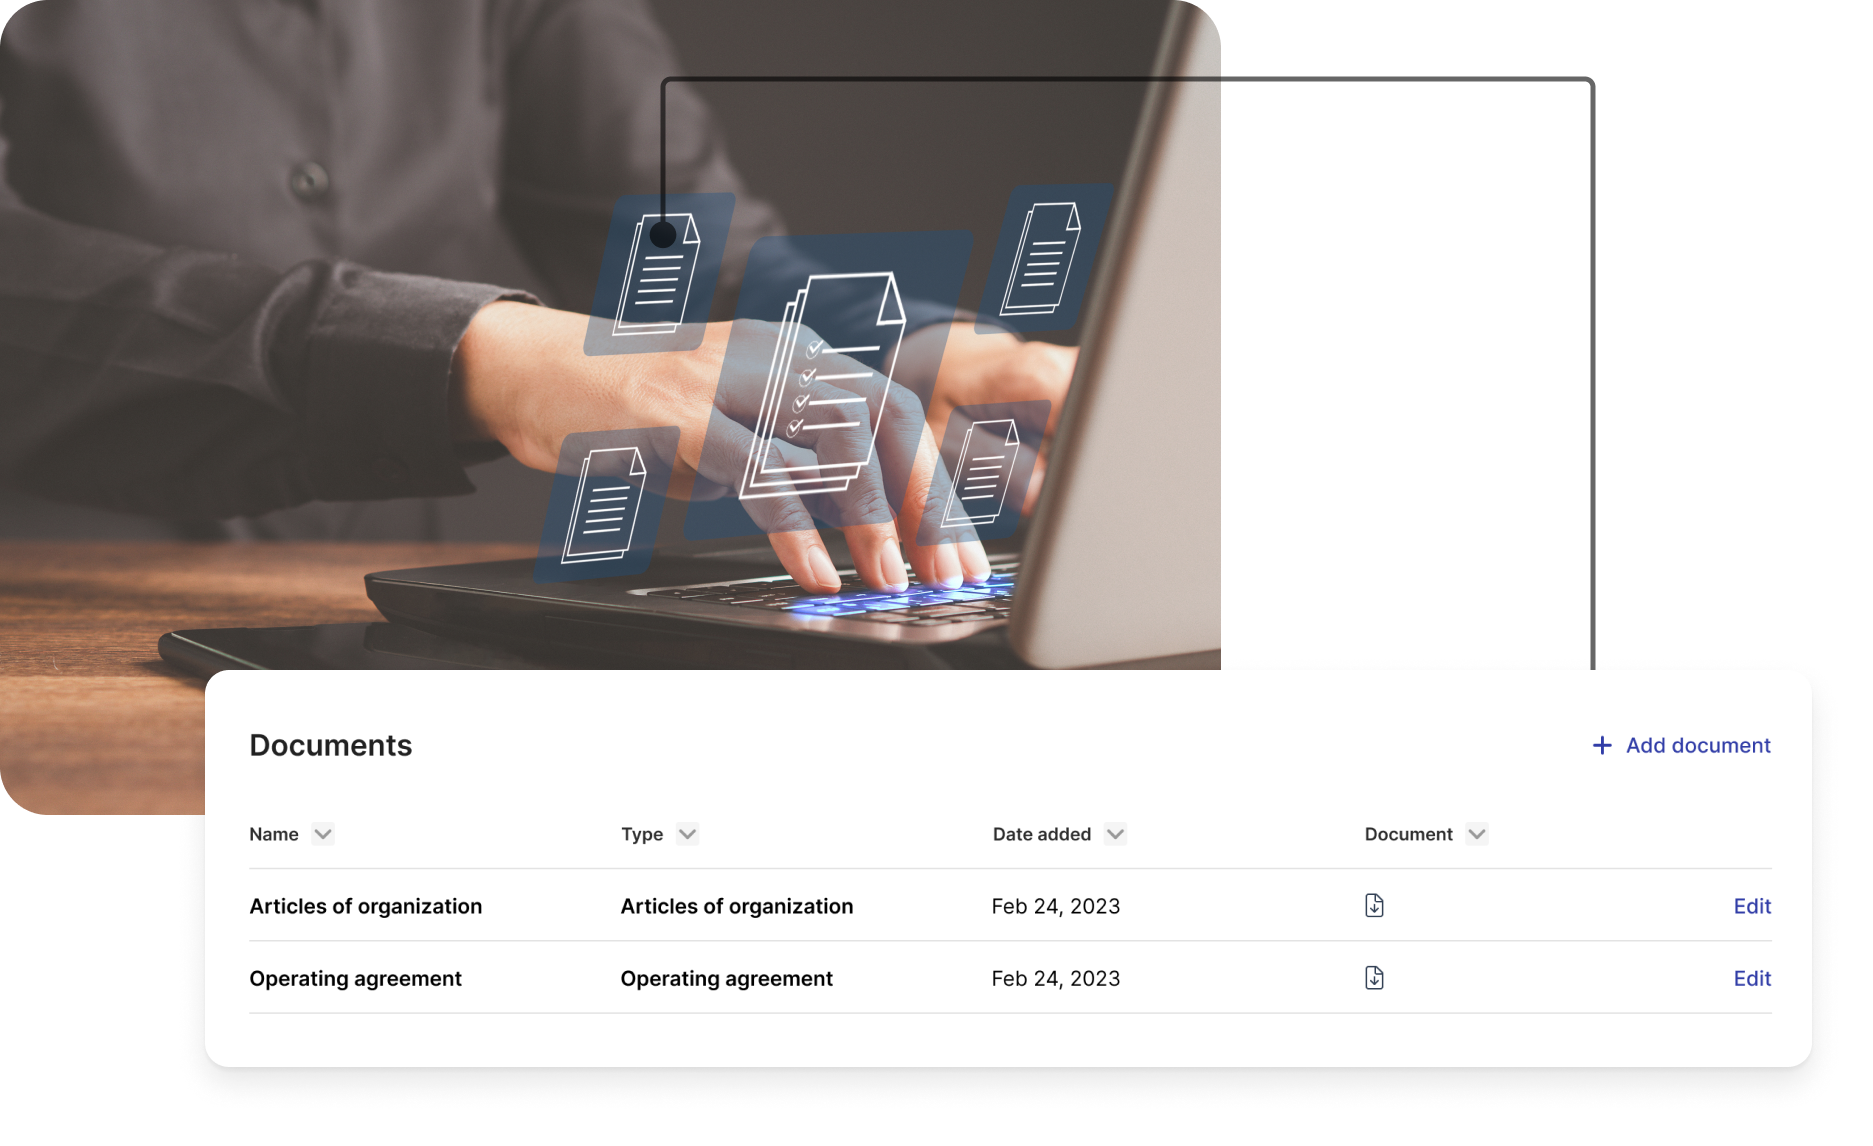
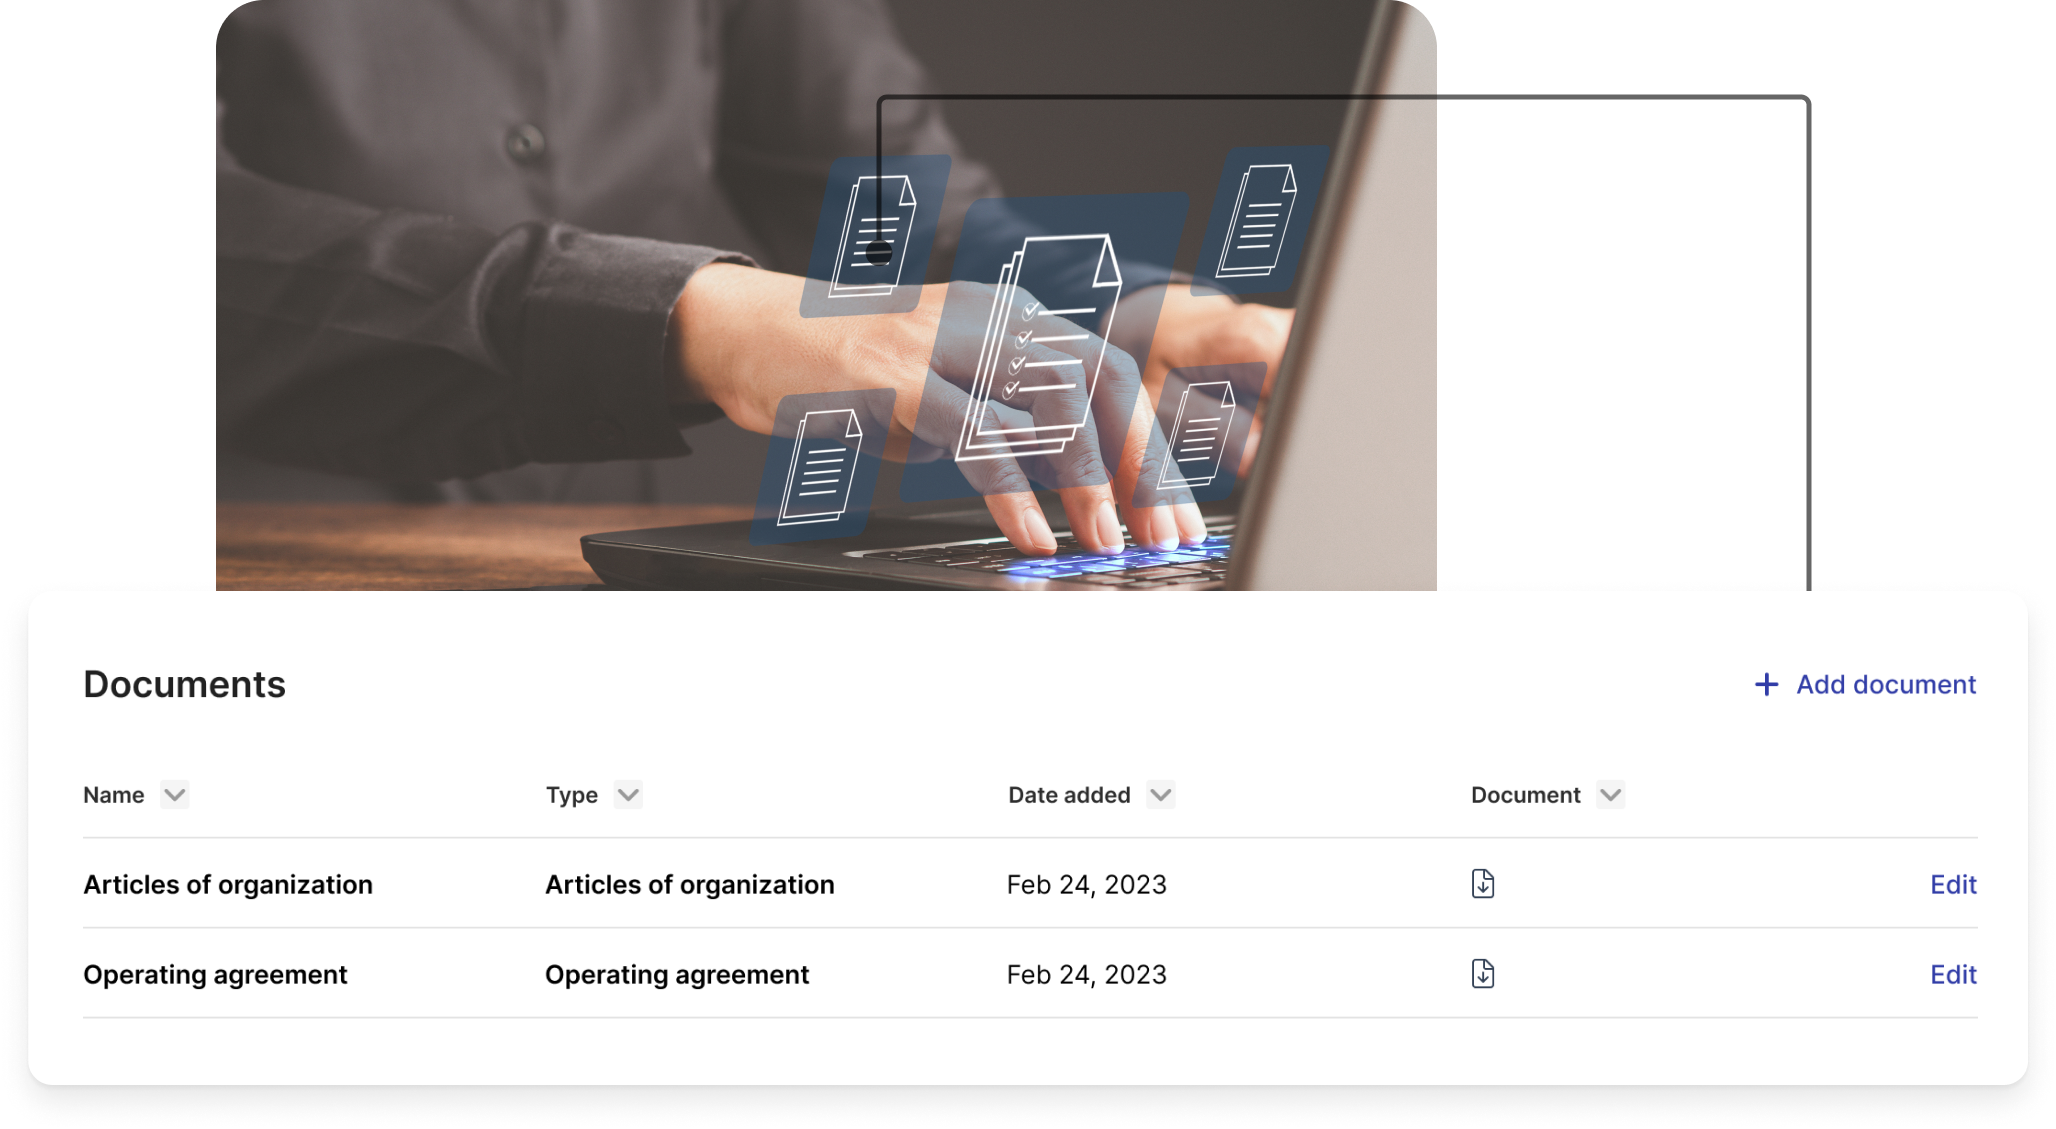
images changes

diff --git a/documents.html b/documents.html
@@ -34,7 +34,7 @@ image: documents.png
         <p>Are you working with partners, vendors, or advisors? Main Street Pulse makes collaboration effortless. You can securely share documents directly from the platform, ensuring your sensitive data is always protected.</p> 
       </div>
       <div class="col-lg-7 order-1">
-        <img src="../assets/images/time-sensitive-activities.png" alt="time-sensitive activities" class="img-fluid">
+        <img src="../assets/images/documents-access-anywhere.png" alt="Access documents anytime on web or mobile" class="img-fluid">
       </div>
     </div>
   </div>

diff --git a/_site/documents/index.html b/_site/documents/index.html
@@ -222,7 +222,7 @@
         <p>Are you working with partners, vendors, or advisors? Main Street Pulse makes collaboration effortless. You can securely share documents directly from the platform, ensuring your sensitive data is always protected.</p> 
       </div>
       <div class="col-lg-7 order-1">
-        <img src="../assets/images/time-sensitive-activities.png" alt="time-sensitive activities" class="img-fluid">
+        <img src="../assets/images/documents-access-anywhere.png" alt="Access documents anytime on web or mobile" class="img-fluid">
       </div>
     </div>
   </div>
